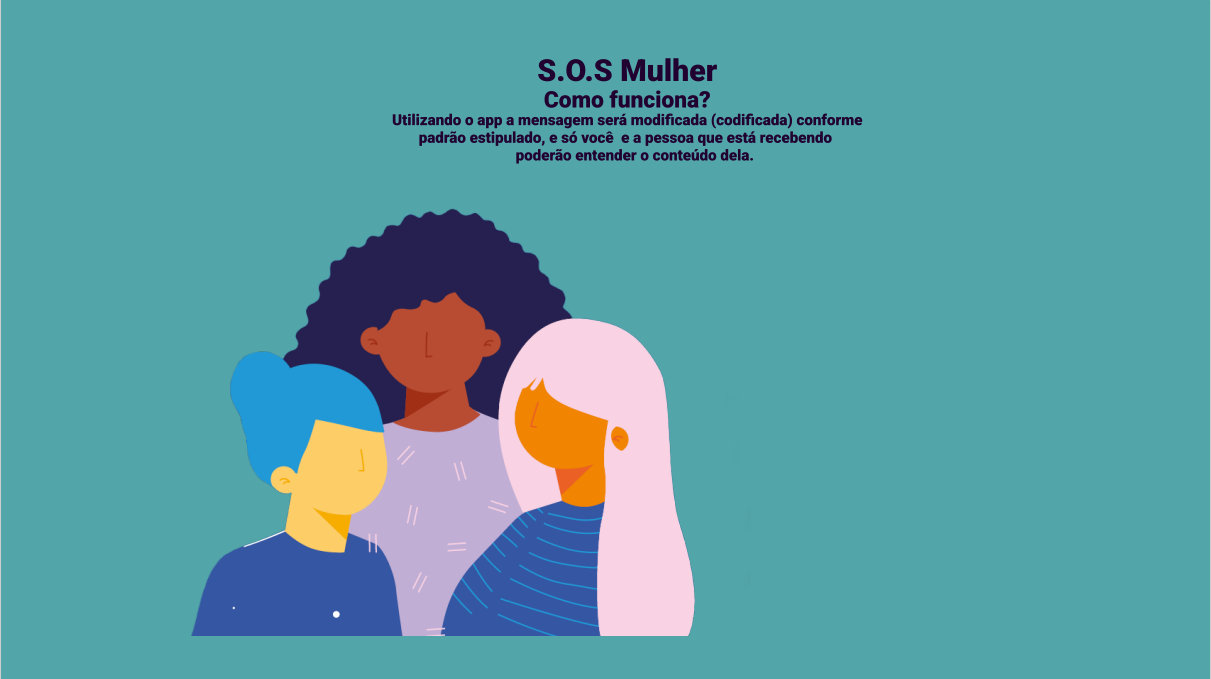
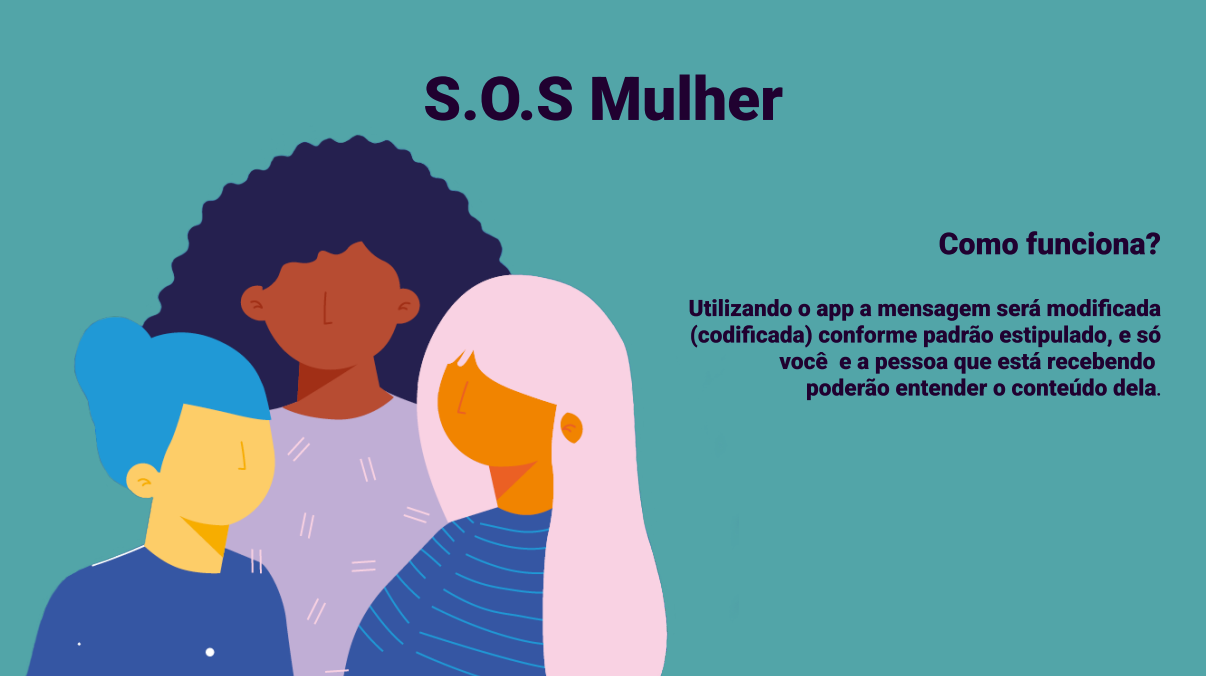
alterei imagem layout

Changed region(s): [[0.0, 0.0621, 0.7056, 1.0], [0.5522, 0.4349, 0.9818, 0.5902], [0.767, 0.3417, 0.9818, 0.3728]]

diff --git a/src/style.css b/src/style.css
@@ -1,108 +1,113 @@
 
 body{
-background-color: #52A5A8;
-width: 100%;
-color: #29023D;   
-font-family:'Times New Roman', Times, serif;
-}
-
-main{
-margin-right: 90px ;
-margin-left: 90px;
-margin-top: 4em;
-
-}
-
-img{
-width: 70%;
-object-fit: none;
-margin-bottom:3rem;
-
-}
-
-
-h1{
-  text-align:right;
-  margin-left: 30%;
-  margin-right: 30%;
-  font-size: 40px;
-  display:block;  
-}
-
-
-p#info,h2{
-border-radius: 10px;
-text-align:right;
-margin-left: 30% ;
-margin-right: 30%;
-font-size: 20px;
-display:block;
-
-}
-p#mensagem{
-
-font-size:15px;
-margin: 10px;
-margin: 0.5rem;
-}
-
-h3 {
-text-align: center;
-margin: 0px 300px 0px  300px;
-background-color:rgb(238, 226, 226);
-font-size: 25px;
-opacity: 70%;
-}
-
-
-.steps{
-background-color:rgb(238, 226, 226);
-font-size: 20px;
-opacity: 70%;
-margin: 0px 300px 0px  300px;
-padding: 10px;
-color: #2B0240;
-
-}
-
-
-input, label{
-margin-bottom: 3rem;
-margin-top: 7rem;
-width: 70px;
-height: 30px;
-border-radius:10px;
-font-size:20px;
-
-}
-
-textarea{
-text-align:center;
-border-radius: 10px;  
-height: 18.5ch;
-width: 25rem;
-opacity: 70%;  
-margin: 0px 10px 0px  40px;
-
-}
-
-
-#btnDecriptar,#btnCodificar{
-background-color: rgb(187, 179, 169);
-border-radius: 5px;
-right:35px ;
-width:5em;
-border-style:none;
-
-}
-
-
-footer{
-align-items:right;
-display:flex;
-justify-content: flex-end;
-margin-right: 30px;
-font-size: larger;
-}
-
-
+  background-color: #52A5A8;
+  width: 100%;
+  color: #29023D;   
+  font-family:'Times New Roman', Times, serif;
+  }
+  
+  main{
+  margin-right: 90px ;
+  margin-left: 90px;
+  margin-top: 4em;
+  
+  }
+  
+  img{
+  width: 70%;
+  object-fit: none;
+  margin-bottom:4rem;
+  
+  }
+  
+  
+  h1{
+    text-align:right;
+    margin-left: 30%;
+    margin-right: 30%;
+    font-size: 40px;
+    display:block;  
+  }
+  
+  
+  p#info,h2{
+  border-radius: 10px;
+  text-align:justify;
+  margin-left: 700px ;
+  margin-right: 30px;
+  font-size: 20px;
+  display:block;
+  
+  }
+  p#mensagem{
+  
+  font-size:15px;
+  margin: 10px;
+  margin: 0.5rem;
+  }
+  
+  h3 {
+  text-align: center;
+  margin: 0px 200px 0px  150px;
+  background-color:rgb(238, 226, 226);
+  font-size: 25px;
+  opacity: 70%;
+  width: 700px;
+  padding: 3px;
+  }
+  
+  div.steps{
+    margin: 0px 200px 0px  150px;
+  }
+  
+  .steps{
+  text-align: center;  
+  background-color:rgb(238, 226, 226);
+  font-size: 20px;
+  opacity: 70%;
+  margin: 0px 300px 0px  300px;
+  padding: 3px;
+  color: #2B0240;
+  width: 700px;
+  
+  }
+  
+  
+  input{
+  margin-bottom: 3rem;
+  margin-top: 7rem;
+  width: 70px;
+  height: 30px;
+  border-radius:10px;
+  font-size:20px;
+  
+  }
+  
+  textarea{
+  text-align:center;
+  border-radius: 10px;  
+  height: 18.5ch;
+  width: 25rem;
+  opacity: 70%;  
+  margin: 0px 20px 0px  30px;
+  
+  }
+  
+  
+  #btnDecriptar,#btnCodificar{
+  background-color: rgb(187, 179, 169);
+  border-radius: 5px;
+  right:35px ;
+  width:5em;
+  border-style:none;
+  
+  }
+  
+  
+  footer{
+  align-items:right;
+  display:flex;
+  justify-content: flex-end;
+  margin-right: 40px;
+  font-size: larger;
+  }

diff --git a/src/index.html b/src/index.html
@@ -45,14 +45,14 @@
    <div class="encrypto">  
        <strong><p id="mensagem"> Digite seu texto abaixo:</p></strong>
     <textarea id="codificarTexto" rows="5" cols="10" > </textarea>
-    <button id="btnCodificar" >Codificar</button>
+    <button id="btnCodificar" >Cifrar</button>
     <textarea id="textcode" rows="5" cols="10"> </textarea>
       </div>
 
       
       <div class="decrypto">
       <textarea  id="decoficarTexto" placeholder="Digite sua mensagem aqui..." rows="5" cols="10"></textarea>
-      <button id="btnDecriptar">Decoficar</button>  
+      <button id="btnDecriptar">Decifrar</button>  
       <textarea  id="textdecode" placeholder="Sua mensagem cifrada..." rows="5" cols="10"></textarea>
       </div>
      </section>
